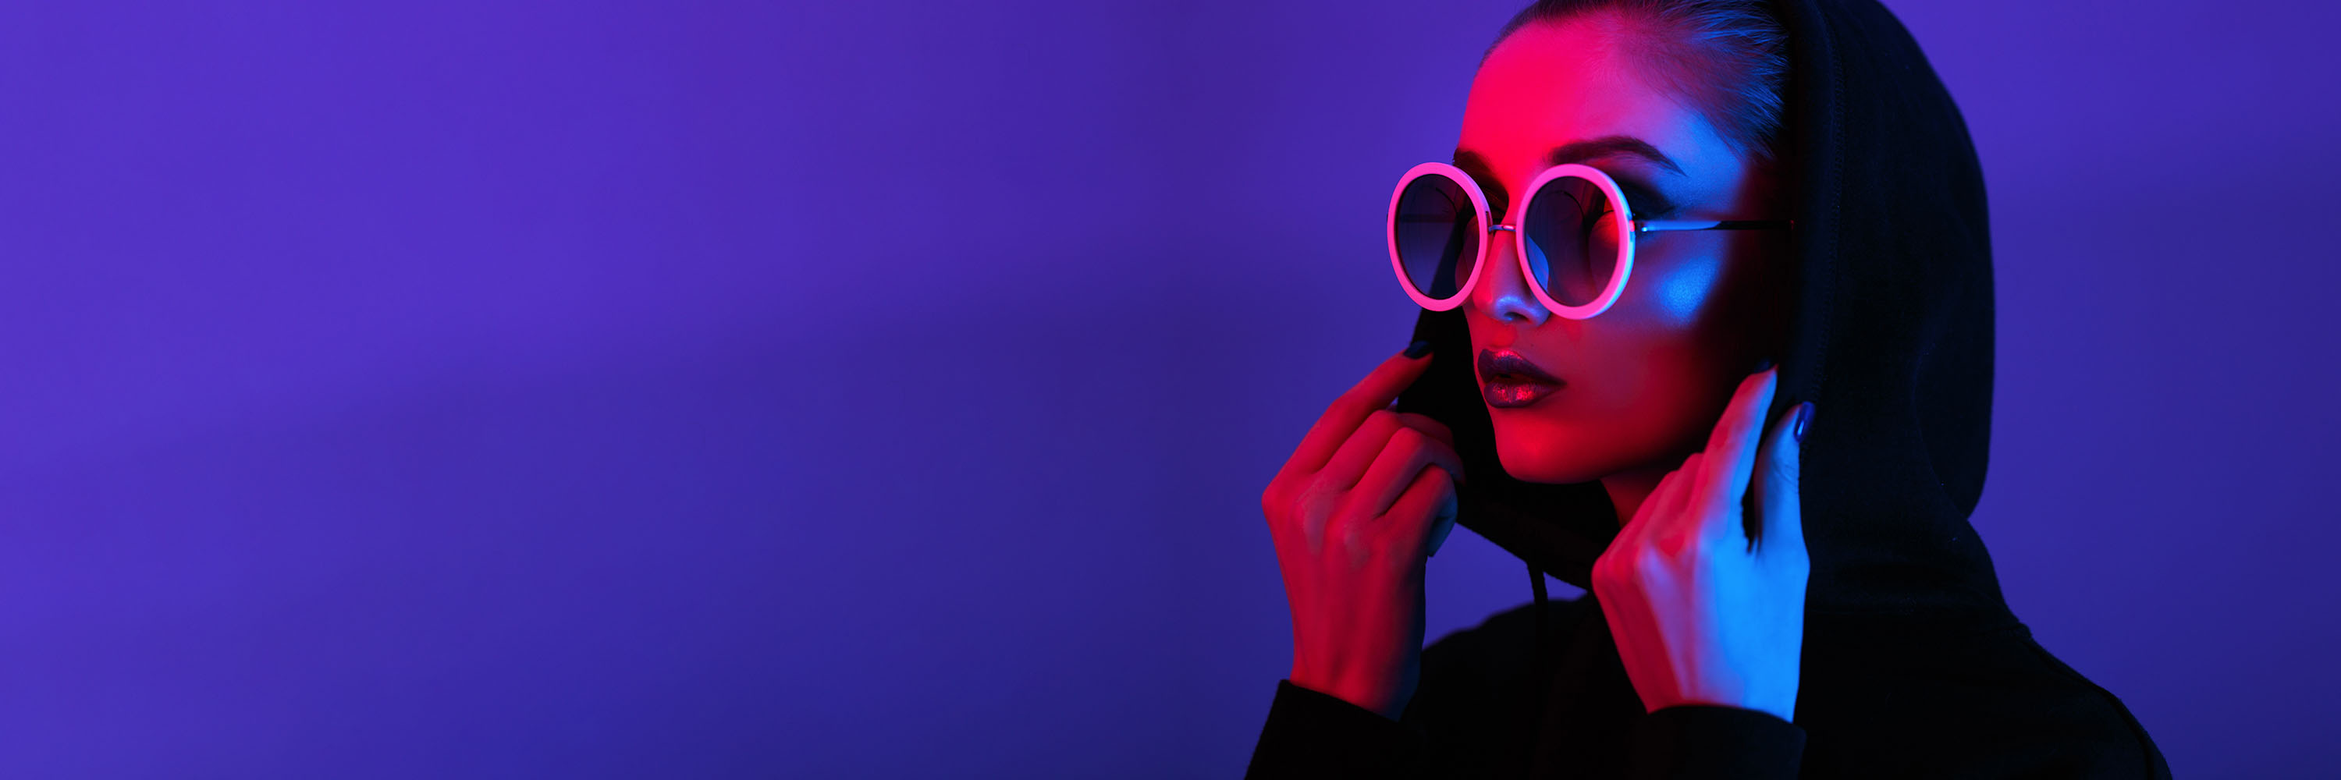
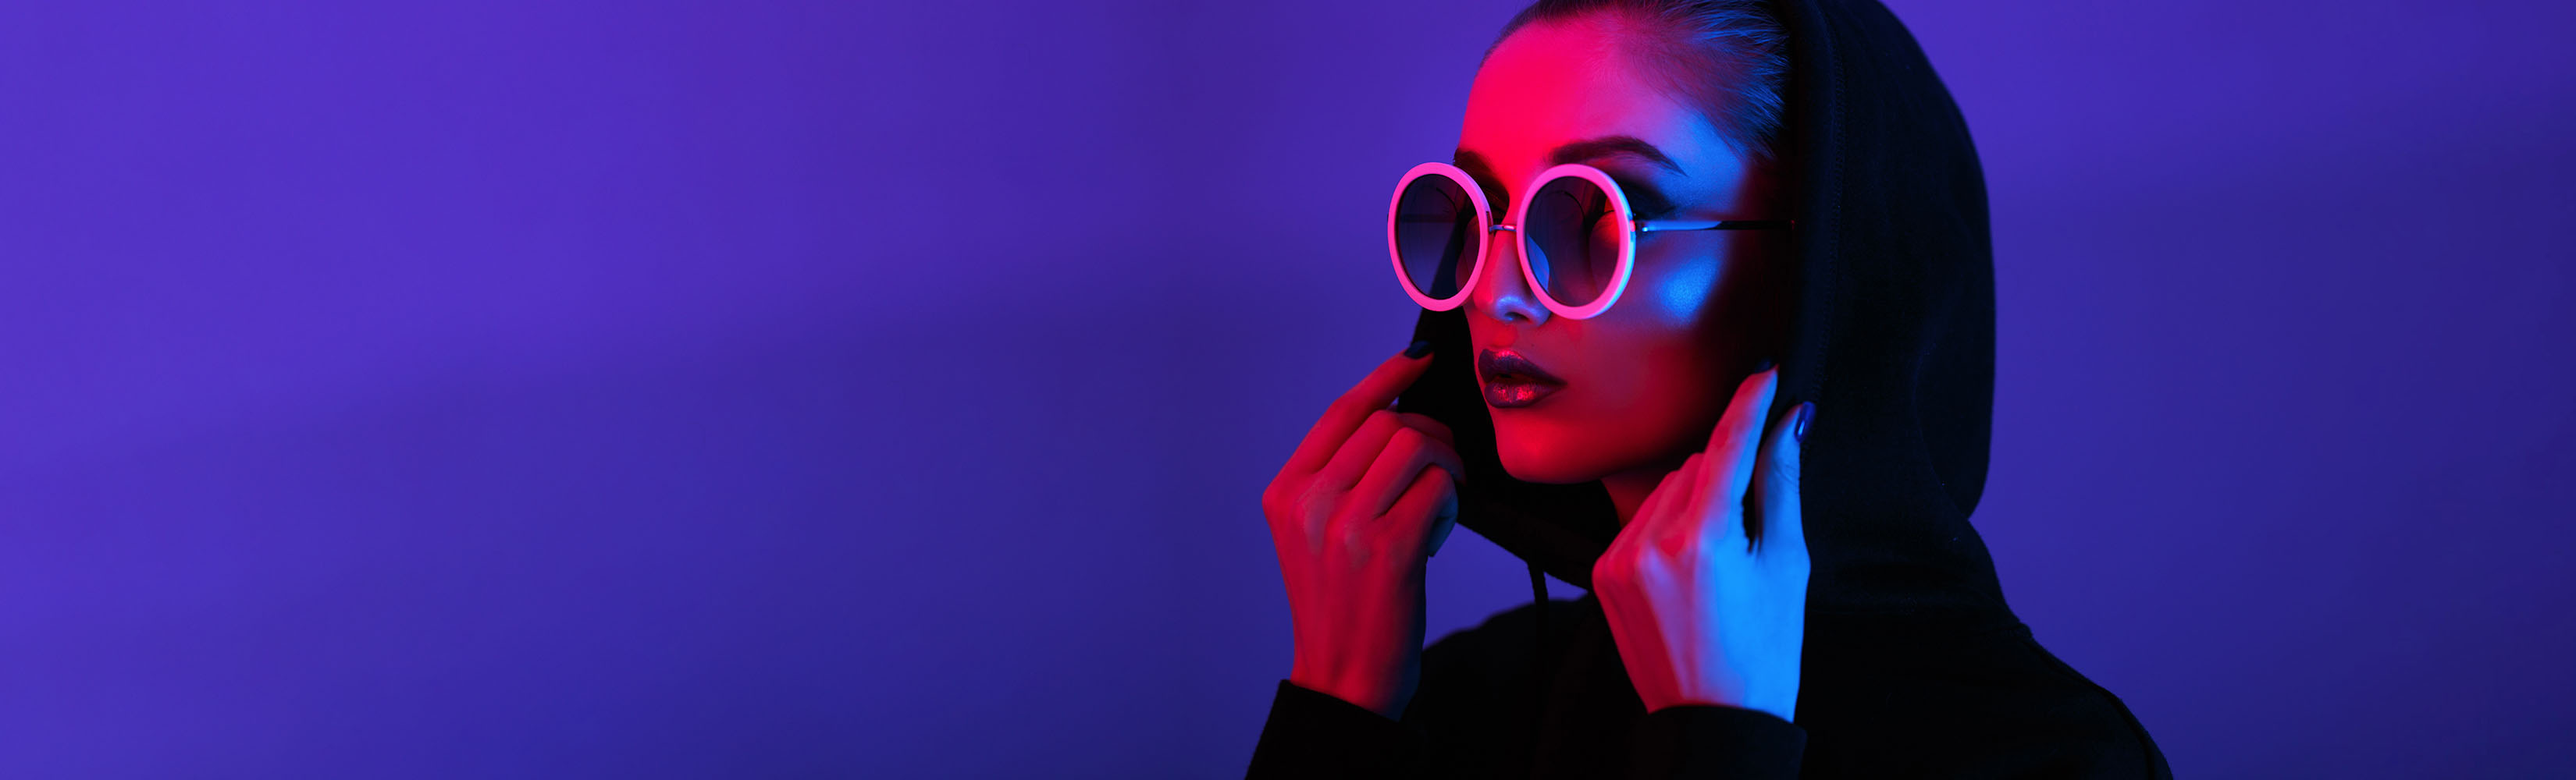
Change index slideshow photo and fix media query

Changed region(s): [[0.465, 0.0, 0.93, 1.0]]

diff --git a/scss/_banner.scss b/scss/_banner.scss
@@ -17,10 +17,6 @@
         width: 100%;
         margin: 0;
     }
-    @include mq($desktopWide){
-        margin: 0 auto;
-        max-width: 2400px;
-    }
     
     .mySlides {
         height: 100%;
@@ -37,22 +33,22 @@
         @include mq($tabletLandscape){
             img {
                 left: 0%;
-                margin-left: 0%;
-            }
-        }
-
-        @include mq($desktopMedium) {
-            img {
-                // height: 500px;
+                margin-right: 10%;
+                margin-left: -5%;
             }
         }
 
         @include mq($desktopLarge) {
             img {
                 height: 100%;
-                // width: 100%;
-                // left: -15%;
-                // margin-left: -50%; 
+                left: -10%;
+            }
+        }
+
+        @include mq($desktopWide){
+            img {
+                left: 0%;
+                display: inherit;
             }
         }
     }
@@ -76,14 +72,14 @@
 
 .banner-title{
     h1{
-        text-align:center;
+        text-align: center;
         line-height: 350px;
         @include mq($tabletLandscape){
-            line-height:400px;
+            line-height: 400px;
         }
         @include mq($desktopMedium){
-            line-height:500px;
-            font-size:2.5em;
+            line-height: 500px;
+            font-size: 2.5em;
         }
     }
 }
@@ -105,7 +101,7 @@
             line-height: 1.3em;
             align-self: end;
             justify-self: center;
-            padding: 30px 20px;
+            padding: 0px 20px 30px 20px;
             
         }
         @include mq($desktopLarge){
@@ -138,17 +134,17 @@
     
     @include mq($phoneLandscapeSmall){
         display: grid;
-        // height: 400px;
 
     }
     @include mq($desktopLarge){
         position: absolute;
-        top: 5vw;
-        left: 20vw;
-        height: 16vw;
-        width: 16vw;
+        top: 240px;
+        left: 450px;
+        height: 17vw;
+        width: 22vw;
     }
 }
+
 
 // products.html Styling
 .p-banner{

diff --git a/scss/_variables.scss b/scss/_variables.scss
@@ -85,7 +85,7 @@ $six-col: colWidth(6);
 }
 
 // Media Query Breakpoints
-$desktopWide:em(2400);
+$desktopWide:em(2300);
 $desktopLarge:em(1919);
 $desktopMedium: em(1250);
 $tabletLandscape: em(1024);
